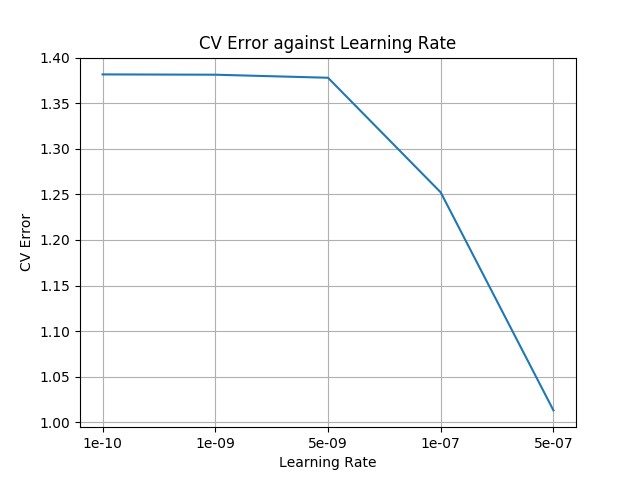
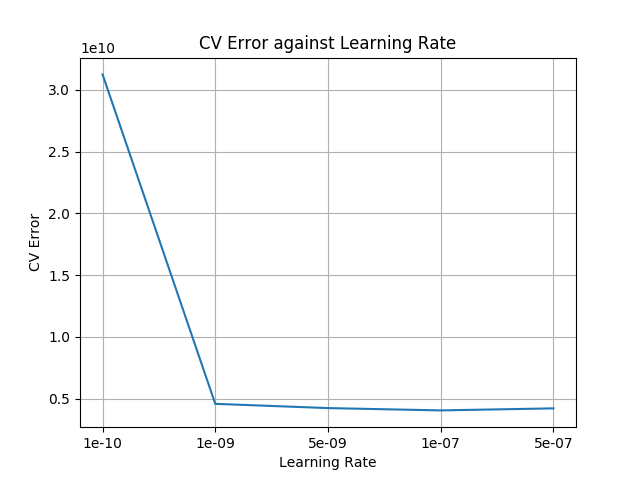
New partb figures

diff --git a/Assignment1/start_project_1bb.py b/Assignment1/start_project_1bb.py
@@ -24,7 +24,7 @@ class CVRegressor():
         keep_prob=0.9, num_folds=5, num_hidden_layers=1,
         hidden_layer_dict={1: 30},
         batch_size=32, learning_rate=10**(-7),
-        l2_beta=10**(-3), epochs=1000, set_session=True, tf_config=None,
+        l2_beta=10**(-3), epochs=500, set_session=True, tf_config=None,
         **kwargs
     ):
 
@@ -108,6 +108,12 @@ class CVRegressor():
                 X_train = np.append(trainX[:start], trainX[end:], axis=0)
                 Y_train = np.append(trainY[:start], trainY[end:], axis=0)
 
+                # scale at each fold
+                x_mean = np.mean(X_train, axis=0)
+                x_std = np.std(X_train, axis=0)
+                X_train = scale(X_train, x_mean, x_std)
+                X_val = scale(X_val, x_mean, x_std)
+
                 _val_err = []
                 _test_err = []
                 for i in range(self.epochs):
@@ -122,7 +128,10 @@ class CVRegressor():
 
                     _val_err.append(self.loss.eval(feed_dict={self.x: X_val, self.y_: Y_val}))
 
-                    if len(testX)>1: _test_err.append(self.loss.eval(feed_dict={self.x: testX, self.y_: testY}))
+                    if len(testX)>1:
+                        # prediction = self.U.eval({self.x: testX})
+                        # _test_err.append(tf.losses.mean_squared_error(testY, prediction))
+                        _test_err.append(self.error.eval(feed_dict={self.x: testX, self.y_: testY}))
                     if i % 100 == 0:
                         print('fold %g: iter %d: validation error %g'%(fold, i, _val_err[i]))
                         print('----------------------')
@@ -148,7 +157,7 @@ class CVRegressor():
     def test(self, X_test, Y_test):
         with tf.Session() as sess:
             self.saver.restore(sess, ".ckpt/1bmodel.ckpt")
-            test_error = self.loss.eval(feed_dict={self.x: X_test, self.y_: Y_test})
+            test_error = self.error.eval(feed_dict={self.x: X_test, self.y_: Y_test})
         #end with
 
         return test_error
@@ -182,17 +191,10 @@ def _read_data(file_name):
     X_train, Y_train = _input_train[:, :8], _input_train[:, -1].astype(float)
     X_test, Y_test = _input_test[:, :8], _input_test[:, -1].astype(float)
 
-    # scaling
+    # scaling test data only
     x_mean = np.mean(X_train, axis=0)
     x_std = np.std(X_train, axis=0)
-    y_mean = np.mean(Y_train)
-    y_std = np.std(Y_train)
-
-    X_train = scale(X_train, x_mean, x_std)
-    Y_train = scale(Y_train, y_mean, y_std)
-
     X_test = scale(X_test, x_mean, x_std)
-    Y_test = scale(Y_test, y_mean, y_std)
 
     return X_train, Y_train.reshape(len(Y_train), 1), X_test, Y_test.reshape(len(Y_test), 1)
 #end def
@@ -231,7 +233,7 @@ def main():
     plt.grid(b=True)
     plt.xlabel('Epochs')
     plt.ylabel('Validation Error')
-    plt.plot(range(1, 1001), regressor.val_err)
+    plt.plot(range(1, 501), regressor.val_err)
     plt.savefig('figures/1b/1a_validation_error_with_epochs.png')
 
     idx = np.random.choice(len(X_test), 50, replace=True)
@@ -265,8 +267,6 @@ def main():
         CV_list.append(regressor.cv_err)
         test_error_list.append(regressor.test_err)
         time_taken_one_epoch_list.append(regressor.time_taken_one_epoch)
-        print('{} learning rate took {}ms per epoch'.format(learning_rate, regressor.time_taken_one_epoch))
-
     #end for
 
     plt.figure('CV Error against Learning Rate')
@@ -284,14 +284,14 @@ def main():
     plt.xlabel('Epochs')
     plt.ylabel('Test Error')
     for i in range(len(learning_rate_list)):
-        plt.plot(range(1, 1001), test_error_list[i], label='Learning Rate {}'.format(learning_rate_list[i]))
+        plt.plot(range(1, 501), test_error_list[i], label='Learning Rate {}'.format(learning_rate_list[i]))
         plt.legend()
     #end for
     plt.savefig('figures/1b/2bTest_error_against_epochs.png')
 
     # Plot Time Taken for One Epoch
-    plt.figure("Time Taken for One Epoch againt Learning Rate")
-    plt.title("Time Taken for One Epoch againt Learning Rate")
+    plt.figure("Time Taken for One Epoch against Learning Rate")
+    plt.title("Time Taken for One Epoch against Learning Rate")
     plt.xlabel('Learning Rate')
     plt.ylabel('Time/ms')
     plt.xticks(np.arange(5), [str(l) for l in learning_rate_list])
@@ -310,7 +310,41 @@ def main():
     plt.grid(b=True)
     plt.savefig('figures/1a/2b_error_against_learning_rate.png')
 
-    optimal_learning_rate = 0.5 * 10**(-6)
+    print("="*50)
+    print("="*25 + "Results" + "="*25 )
+    print("="*50)
+    for i in range(len(learning_rate_list)):
+        print('Learning Rate: {}'.format(learning_rate_list[i]))
+        print('Time per epoch: {}ms'.format(time_taken_one_epoch_list[i]))
+        print('Convergence Test Error: {}'.format(final_err[i]))
+        print('-'*50)
+    #end for
+
+    # ==================================================
+    # =========================Results=========================
+    # ==================================================
+    # Learning Rate: 1e-10
+    # Time per epoch: 52.906027984619136ms
+    # Convergence Test Error: 31665864704.0
+    # --------------------------------------------------
+    # Learning Rate: 1e-09
+    # Time per epoch: 50.655290031433104ms
+    # Convergence Test Error: 4719691264.0
+    # --------------------------------------------------
+    # Learning Rate: 5e-09
+    # Time per epoch: 50.2107159614563ms
+    # Convergence Test Error: 4405347328.0
+    # --------------------------------------------------
+    # Learning Rate: 1e-07
+    # Time per epoch: 50.12419328689575ms
+    # Convergence Test Error: 4175657728.0
+    # --------------------------------------------------
+    # Learning Rate: 5e-07
+    # Time per epoch: 49.85496969223022ms
+    # Convergence Test Error: 4366656512.0
+    # --------------------------------------------------
+
+    optimal_learning_rate = 1 * 10**(-7)
 
     ############ Q3 3-layer Feedforward Network ############
     num_neurons_list = [20, 40, 60, 80, 100]
@@ -326,8 +360,6 @@ def main():
         CV_list.append(regressor.cv_err)
         test_error_list.append(regressor.test_err)
         time_taken_one_epoch_list.append(regressor.time_taken_one_epoch)
-        print('{} num neuron took {}ms per epoch'.format(num_neurons, regressor.time_taken_one_epoch))
-
     #end for
 
     plt.figure('CV Error against Number of Neurons')
@@ -345,14 +377,14 @@ def main():
     plt.xlabel('Epochs')
     plt.ylabel('Test Error')
     for i in range(len(num_neurons_list)):
-        plt.plot(range(1, 1001), test_error_list[i], label='Number of Neurons {}'.format(num_neurons_list[i]))
+        plt.plot(range(1, 501), test_error_list[i], label='Number of Neurons {}'.format(num_neurons_list[i]))
         plt.legend()
     #end for
     plt.savefig('figures/1b/3bTest_error_against_epochs.png')
 
     # Plot Time Taken for One Epoch
-    plt.figure("Time Taken for One Epoch againt Number of Neurons")
-    plt.title("Time Taken for One Epoch againt Number of Neurons")
+    plt.figure("Time Taken for One Epoch against Number of Neurons")
+    plt.title("Time Taken for One Epoch against Number of Neurons")
     plt.xlabel('Number of Neurons')
     plt.ylabel('Time/ms')
     plt.plot(num_neurons_list, time_taken_one_epoch_list)
@@ -369,11 +401,44 @@ def main():
     plt.grid(b=True)
     plt.savefig('figures/1a/3c_error_against_num_neurons.png')
 
-    optimal_num_neurons = 20
+    print("="*50)
+    print("="*25 + "Results" + "="*25 )
+    print("="*50)
+    for i in range(len(num_neurons_list)):
+        print('Number of Neurons: {}'.format(num_neurons_list[i]))
+        print('Time per epoch: {}ms'.format(time_taken_one_epoch_list[i]))
+        print('Convergence Test Error: {}'.format(final_err[i]))
+        print('-'*50)
+    #end for
+    # ==================================================
+    # =========================Results=========================
+    # ==================================================
+    # Number of Neurons: 20
+    # Time per epoch: 26.007418441772458ms
+    # Convergence Test Error: 4205488128.0
+    # --------------------------------------------------
+    # Number of Neurons: 40
+    # Time per epoch: 25.636677455902102ms
+    # Convergence Test Error: 4129115648.0
+    # --------------------------------------------------
+    # Number of Neurons: 60
+    # Time per epoch: 25.988332271575928ms
+    # Convergence Test Error: 4167387648.0
+    # --------------------------------------------------
+    # Number of Neurons: 80
+    # Time per epoch: 26.08174295425415ms
+    # Convergence Test Error: 4216478976.0
+    # --------------------------------------------------
+    # Number of Neurons: 100
+    # Time per epoch: 27.182005214691163ms
+    # Convergence Test Error: 4066954496.0
+    # --------------------------------------------------
+    optimal_num_neurons = 40
 
     ############ Q4 3-layer Feedforward Network ############
-    state_list = ['3-layer w/o dropout', '3-layer w/ dropout', '4-layer w/o dropout', '4-layer w/ dropout', '5-layer w/o dropout', '5-layer w/ dropout']
+    state_list = ['3L w/o dp', '3L w/ dp', '4L w/o dp', '4L w/ dp', '5L w/o dp', '5L w/ dp']
     test_error_list = []
+    time_taken_one_epoch_list = []
 
     #### 3-layer without dropout ####
     regressor = CVRegressor(features_dim=NUM_FEATURES, output_dim=1,
@@ -382,6 +447,7 @@ def main():
     regressor = regressor.train(trainX=X_train, trainY=Y_train, testX=X_test, testY=Y_test,
                                 small=False)
     test_error_list.append(regressor.test(X_test, Y_test))
+    time_taken_one_epoch_list.append(regressor.time_taken_one_epoch)
 
     #### 3-layer with dropout ####
     regressor = CVRegressor(features_dim=NUM_FEATURES, output_dim=1,
@@ -391,6 +457,7 @@ def main():
     regressor = regressor.train(trainX=X_train, trainY=Y_train, testX=X_test, testY=Y_test,
                                 small=False)
     test_error_list.append(regressor.test(X_test, Y_test))
+    time_taken_one_epoch_list.append(regressor.time_taken_one_epoch)
 
     #### 4-layer without dropout ####
     regressor = CVRegressor(features_dim=NUM_FEATURES, output_dim=1,
@@ -399,6 +466,7 @@ def main():
     regressor = regressor.train(trainX=X_train, trainY=Y_train, testX=X_test, testY=Y_test,
                                 small=False)
     test_error_list.append(regressor.test(X_test, Y_test))
+    time_taken_one_epoch_list.append(regressor.time_taken_one_epoch)
 
     #### 4-layer with dropout ####
     regressor = CVRegressor(features_dim=NUM_FEATURES, output_dim=1,
@@ -408,6 +476,7 @@ def main():
     regressor = regressor.train(trainX=X_train, trainY=Y_train, testX=X_test, testY=Y_test,
                                 small=False)
     test_error_list.append(regressor.test(X_test, Y_test))
+    time_taken_one_epoch_list.append(regressor.time_taken_one_epoch)
 
     #### 5-layer without dropout ####
     regressor = CVRegressor(features_dim=NUM_FEATURES, output_dim=1,
@@ -416,6 +485,7 @@ def main():
     regressor = regressor.train(trainX=X_train, trainY=Y_train, testX=X_test, testY=Y_test,
                                 small=False)
     test_error_list.append(regressor.test(X_test, Y_test))
+    time_taken_one_epoch_list.append(regressor.time_taken_one_epoch)
 
     #### 5-layer with dropout ####
     regressor = CVRegressor(features_dim=NUM_FEATURES, output_dim=1,
@@ -425,6 +495,7 @@ def main():
     regressor = regressor.train(trainX=X_train, trainY=Y_train, testX=X_test, testY=Y_test,
                                 small=False)
     test_error_list.append(regressor.test(X_test, Y_test))
+    time_taken_one_epoch_list.append(regressor.time_taken_one_epoch)
 
     for i in range(len(state_list)):
         print("state list: {}, test_error: {}".format(state_list[i],test_error_list[i]))
@@ -436,6 +507,44 @@ def main():
     plt.xticks(np.arange(6), state_list)
     plt.plot(state_list, test_error_list)
     plt.savefig('figures/1b/4Test_error.png')
+
+    print("="*50)
+    print("="*25 + "Results" + "="*25 )
+    print("="*50)
+    for i in range(len(state_list)):
+        print('State: {}'.format(state_list[i]))
+        print('Time per epoch: {}ms'.format(time_taken_one_epoch_list[i]))
+        print('Convergence Test Error: {}'.format(test_error_list[i]))
+        print('-'*50)
+    #end for
+    # ==================================================
+    # =========================Results=========================
+    # ==================================================
+    # State: 3L w/o dp
+    # Time per epoch: 47.23421764373779ms
+    # Convergence Test Error: 4540545536.0
+    # --------------------------------------------------
+    # State: 3L w/ dp
+    # Time per epoch: 53.36572380065918ms
+    # Convergence Test Error: 4972498944.0
+    # --------------------------------------------------
+    # State: 4L w/o dp
+    # Time per epoch: 56.572142887115476ms
+    # Convergence Test Error: 3475232256.0
+    # --------------------------------------------------
+    # State: 4L w/ dp
+    # Time per epoch: 64.23646202087401ms
+    # Convergence Test Error: 4715468800.0
+    # --------------------------------------------------
+    # State: 5L w/o dp
+    # Time per epoch: 64.29392166137696ms
+    # Convergence Test Error: 3774078976.0
+    # --------------------------------------------------
+    # State: 5L w/ dp
+    # Time per epoch: 76.36065416336059ms
+    # Convergence Test Error: 4738519552.0
+    # --------------------------------------------------
+
 #end def
 
 
